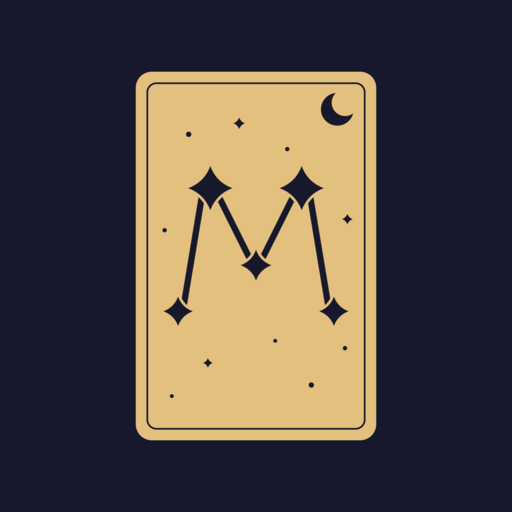
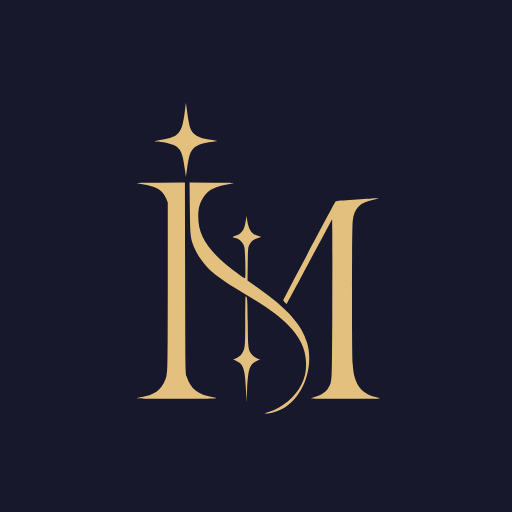
[feat] Drop languages from the OG image
[feat] I-S-M monogram for the site mark, favicon, icons and OG image

[feat] IM monogram mark, favicon, icons and OG image

Changed region(s): [[0.25, 0.125, 0.75, 0.875]]

diff --git a/libs/ui/header/src/lib/header.html b/libs/ui/header/src/lib/header.html
@@ -1,6 +1,6 @@
 <div class="mx-auto flex h-16 max-w-6xl items-center gap-8 px-4 md:px-8">
   <a class="flex items-center gap-3 text-text-primary no-underline hover:no-underline" [routerLink]="paths.home">
-    <img class="h-8 w-auto" src="/mark.svg" alt="" width="21" height="32" />
+    <img class="h-8 w-auto" src="/mark.svg" alt="" width="26" height="32" />
     <span class="font-display text-2xl font-bold">{{ site.name }}</span>
   </a>
 

diff --git a/docs/decisions.md b/docs/decisions.md
@@ -126,9 +126,9 @@ libs/home/page --name=home/page`.
   `input:where(...)`, браузер без `:where()` отбрасывает правило целиком — кнопки остаются серыми.
 - **Кнопка — директива `button[imkButton], a[imkButton]`** (`@isomantika/ui/buttons`) с вариантами `primary`, `secondary`,
   `ghost`; классы варианта — `computed` в `host` `[class]`, статические — в `host.class`.
-- **Фавикон:** во вкладке — знак «M» из звёзд без карты (`favicon.svg` + `favicon.ico` 16/32 вместо PNG 32 — его
-  браузеры запрашивают и без `<link>`); иконки iOS и манифеста (180/192/512) — карта на тёмном фоне (`icon_ios.svg`
-  приложения). При смене бренда — заменить.
+- **Фавикон:** во вкладке — знак без карты (`favicon.svg` + `favicon.ico` 16/32 вместо PNG 32 — его
+  браузеры запрашивают и без `<link>`); иконки iOS и манифеста (180/192/512) — знак на тёмном фоне.
+  При смене бренда — заменить.
 
 ## 2026-10-15 — оболочка страниц (2.2)
 
@@ -150,7 +150,7 @@ libs/home/page --name=home/page`.
   «Эта страница есть на русском». Плашка снизу по центру; закрытие помнится в `localStorage`.
 - **Шапка — sticky** с `backdrop-blur` (через `supports-[backdrop-filter]`, без поддержки — сплошной фон).
   Навигация «Возможности» и «Расклады» — якоря `/#features`, `/#spreads` (секции появятся на этапе 3).
-- **`og.png` 1200×630** — карта из `mark.svg`, «Isomantika» Cormorant и «AI tarot readings»; одна для всех языков,
+- **`og.png` 1200×630** — знак из `mark.svg`, «Isomantika» Cormorant и «AI tarot readings»; одна для всех языков,
   сгенерирована скриншотом Playwright. При смене бренда — перегенерировать.
 - **Три разрешения:** handset (< 768), tablet (`md:`), web (`lg:`); в e2e добавлен проект `tablet-chrome` (820×1180).
 - `h1`/`h2` на мобильных меньше и с переносом: длинные русские слова («конфиденциальности») не вылезают за экран.
@@ -284,3 +284,13 @@ libs/home/page --name=home/page`.
   сбрасываются — счётчиков ещё нет, терять нечего).
 - **Юридические тексты** в `content/` заменены механически (имя, домен, почта) с разрешения владельца, без других правок.
 - **Знак «M», фавикон и `og.png`** пока старые — новый знак выбирается из концептов, отдельной задачей.
+
+## 2026-10-17 — знак «I-S-M»
+
+- **Монограмма «I-S-M»** вместо карты с «M»: высокая «I» со звездой вместо точки, лента-«S» и «M» с осью из звёзд —
+  «IsoMantika». Направление выбрано из генераций (GPT Image в Leonardo), контур доведён владельцем
+  (`Isomantika-logo.svg`, один путь 395×490). Карта таро из знака ушла: для товарного знака она описательна и не
+  различительна.
+- **На сайте — золотом `#E3C07E` на тёмном**, без карты: `mark.svg` (шапка), `favicon.svg`/`.ico` (16/32 — пока из
+  полного знака, упрощённую версию решаем по виду), `apple-touch-icon.png`, `icon-192/512.png`, `og.png` (знак +
+  «Isomantika» Cormorant + «AI tarot readings»). Генераторы — разовые, в репозиторий не входят.

diff --git a/docs/progress.md b/docs/progress.md
@@ -55,3 +55,5 @@
       документах фокусируется с клавиатуры.
 - [x] **Ребрендинг Mantikai → Isomantika** — 2026-10-17. Имя, домен `isomantika.com`, почта, алиас `@isomantika/*`,
       префикс `imk`, переводы, юридические тексты (механическая замена). Знак, фавикон и `og.png` — позже.
+- [x] **Знак «I-S-M»** — 2026-10-17. Монограмма «I-S-M» золотом на тёмном: `mark.svg`, фавикон, иконки 180/192/512,
+      `og.png`.
